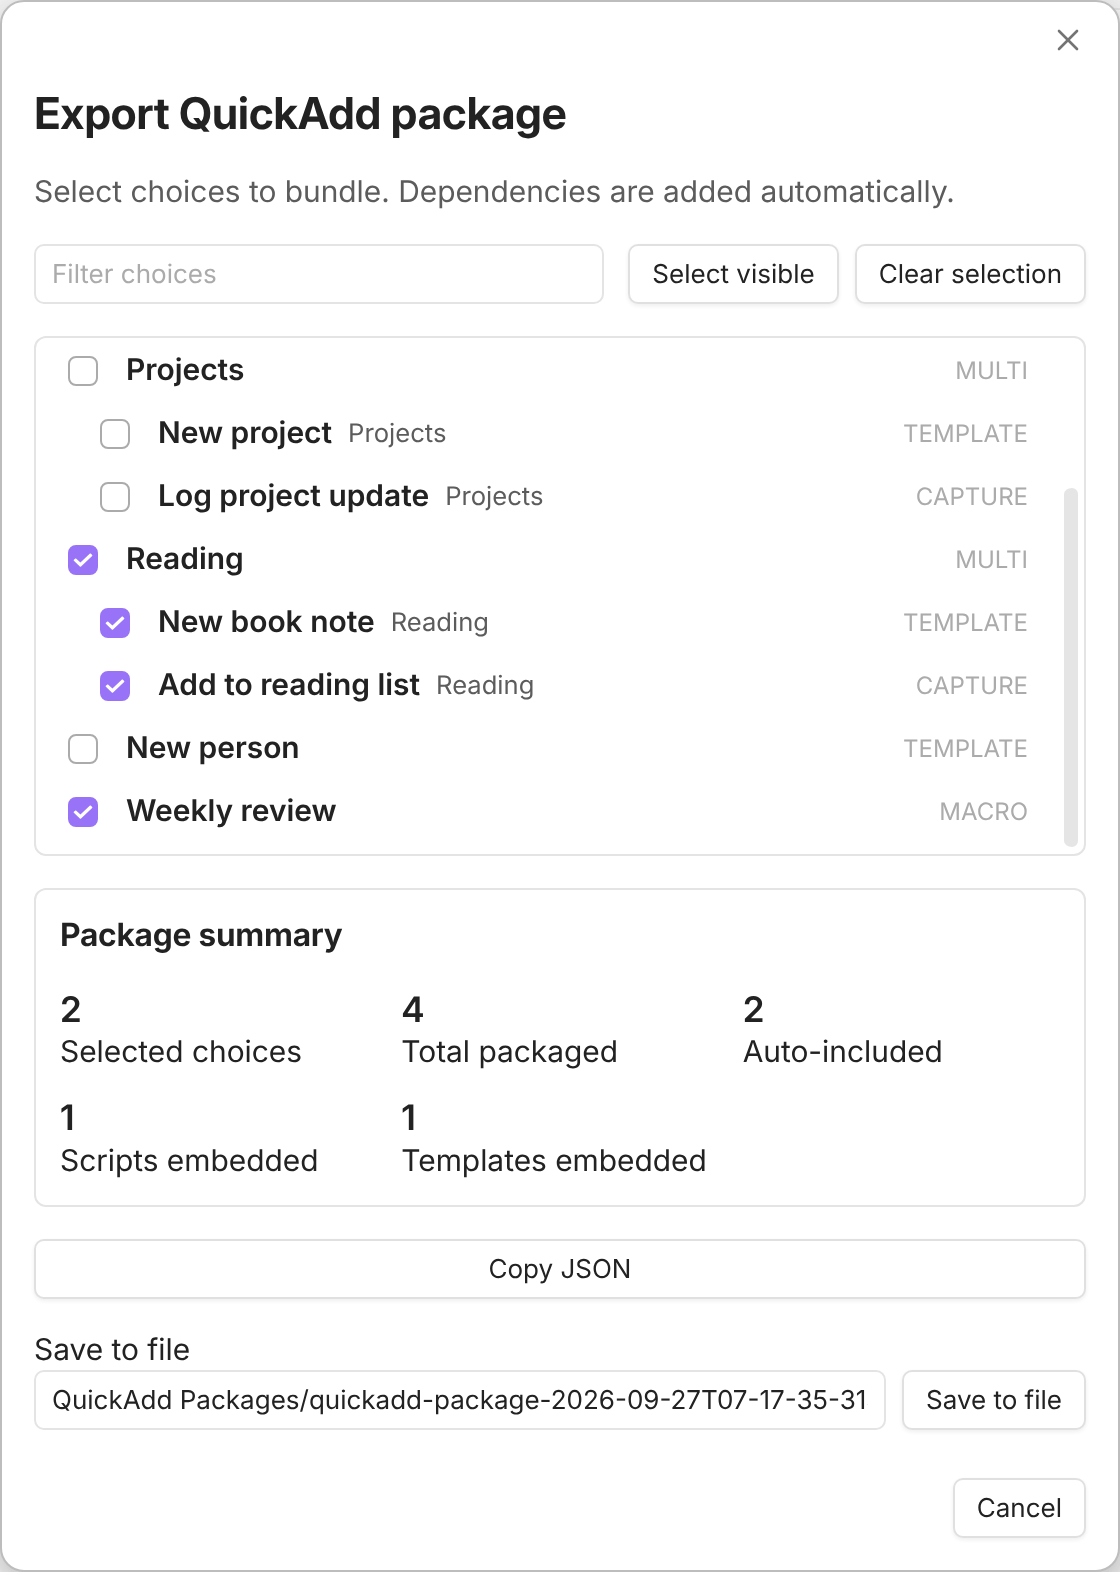
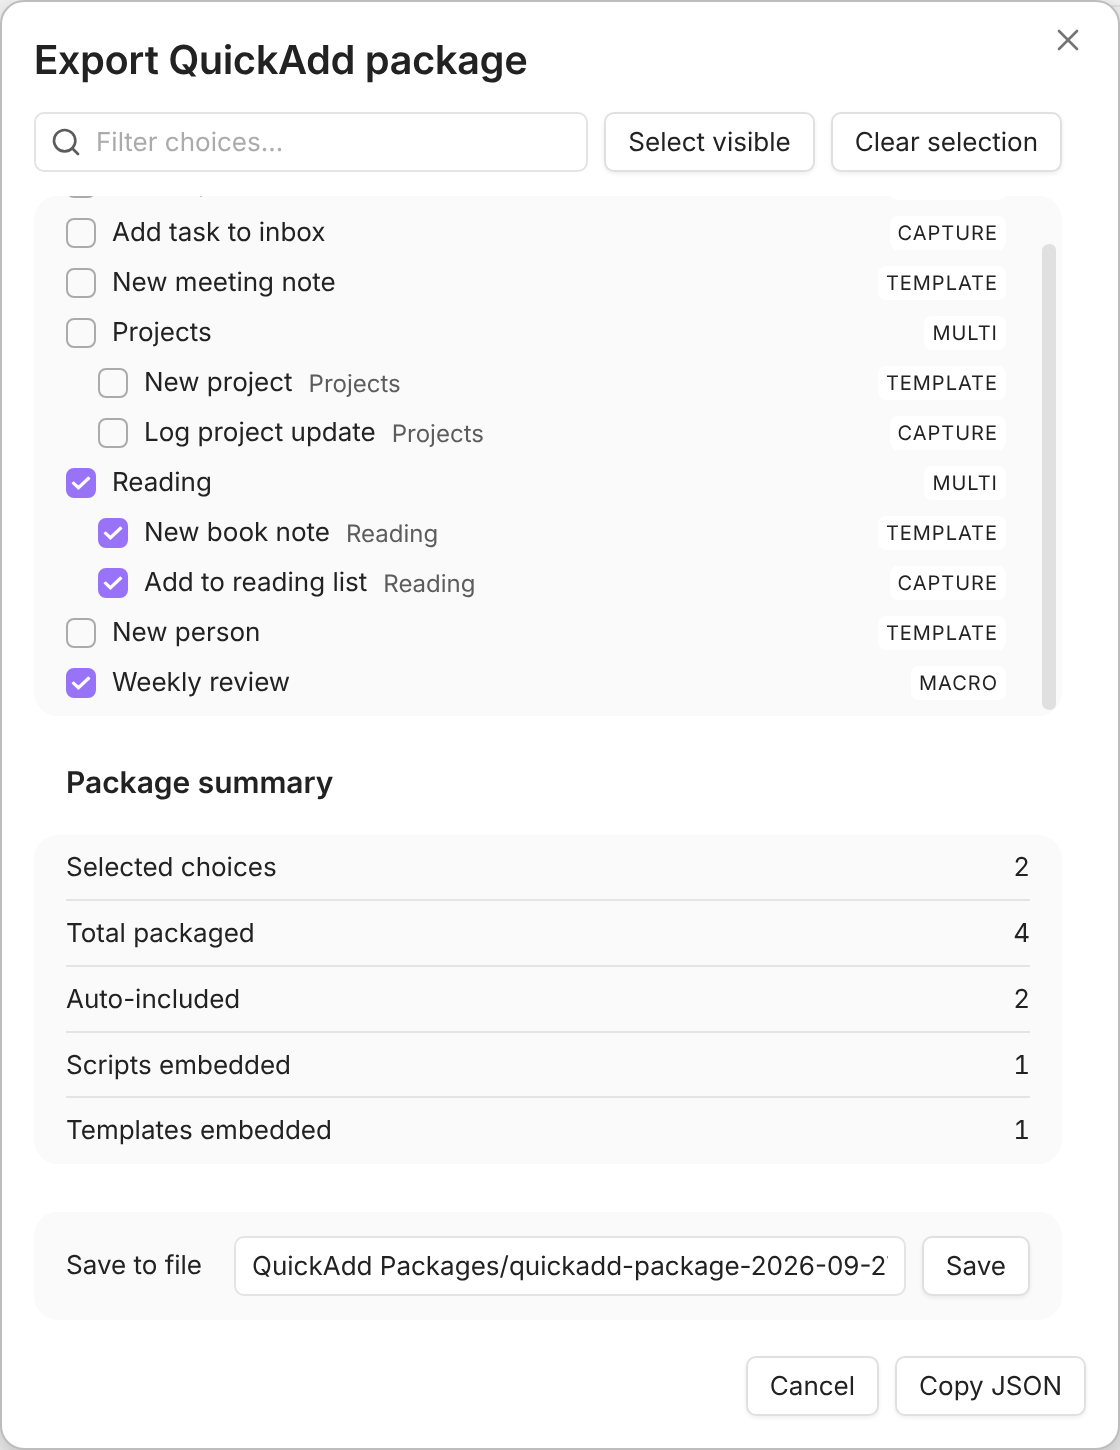
docs(packages): re-capture the package modal screenshots for the native UI
#1843 restyled the package import and export modals with Obsidian's own
callouts, flair chips, setting groups, modal title, and button row. The
three screenshots on the Packages page still showed the old modals.

Re-captured them from the same scenario as #1827 in Obsidian 1.13.7 with
the default light theme, Inter, 2x scale, and 560 CSS px modals: the
Reading folder and the Weekly review macro exported, then imported with
Scripts/weekly-review.js added and Templates/Book.md overwritten. The alt
text describes the new layout, and the export step names the Save button,
which replaced "Save to file".

diff --git a/docs/src/content/docs/docs/Choices/Packages.md b/docs/src/content/docs/docs/Choices/Packages.md
@@ -17,11 +17,11 @@ so you always see the scripts and macros before they run.
 3. Use the filter to find the choices you want to share, then tick their
    checkboxes. Any dependent choices or scripts are added automatically.
 4. Review the summary panel to confirm how many choices and assets are included.
-5. Choose **Copy JSON** (puts the package on your clipboard) or **Save to file**.
-   When saving, QuickAdd creates any missing folders inside your vault
-   automatically.
+5. Choose **Copy JSON** (puts the package on your clipboard), or click **Save**
+   in the **Save to file** row to write it to the path shown there. When saving,
+   QuickAdd creates any missing folders inside your vault automatically.
 
-![The Export QuickAdd package modal with the Reading folder, its two choices, and the Weekly review macro ticked. The package summary shows 2 selected choices, 4 total packaged, 2 auto-included, 1 script embedded, and 1 template embedded, above the Copy JSON and Save to file buttons](../Images/package-export.png)
+![The Export QuickAdd package modal with the Reading folder, its two choices, and the Weekly review macro ticked. The package summary shows 2 selected choices, 4 total packaged, 2 auto-included, 1 script embedded, and 1 template embedded. Below it are the Save to file row with its Save button, then the Cancel and Copy JSON buttons](../Images/package-export.png)
 
 :::caution
 If a referenced script is missing from your vault, the exporter finishes with a
@@ -102,7 +102,7 @@ makes everything visible **before** anything is written.
 A **What this package can do** panel lists the package's capabilities, ranked by
 how much they can affect your vault:
 
-![The Import QuickAdd package modal after pasting a package. The What this package can do panel lists a SCRIPT row for the Weekly review macro's user script, a COMMAND row, and an OVERWRITES row. Below it, the Choices table lists Reading, Weekly review, New book note, and Add to reading list, each with an Import action](../Images/package-import-review.png)
+![The Import QuickAdd package modal after pasting a package. The What this package can do callout lists a SCRIPT row for the Weekly review macro's user script, a COMMAND row, and an OVERWRITES row. Below it, the Choices list shows Reading, Weekly review, New book note, and Add to reading list, each set to Import](../Images/package-import-review.png)
 
 - **Runs custom JavaScript** - a user script, or a script-mode condition, that runs arbitrary code.
 - **Runs on startup** - a macro set to run automatically every time Obsidian launches, with no interaction.
@@ -135,7 +135,7 @@ When a package can run code, the **Import package** button stays disabled until
 you have opened **View contents** on each bundled executable file and ticked
 the acknowledgement. Reviewed files are marked so you can track what is left.
 
-![The Files section of the import modal. The bundled script Scripts/weekly-review.js is marked EXECUTABLE and Reviewed, with its contents expanded, and Templates/Book.md is grouped under Will overwrite. The acknowledgement is ticked, so the Import package button is enabled](../Images/package-import-files.png)
+![The Files section of the import modal. Under Added, the bundled script weekly-review.js is marked EXECUTABLE and Reviewed, with its contents expanded and its destination set to Scripts/weekly-review.js. Under Will overwrite, Book.md goes to Templates/Book.md. The acknowledgement checkbox is ticked, so the Import package button is enabled](../Images/package-import-files.png)
 
 :::caution
 If a referenced script is **not** bundled, QuickAdd warns that it will run from
